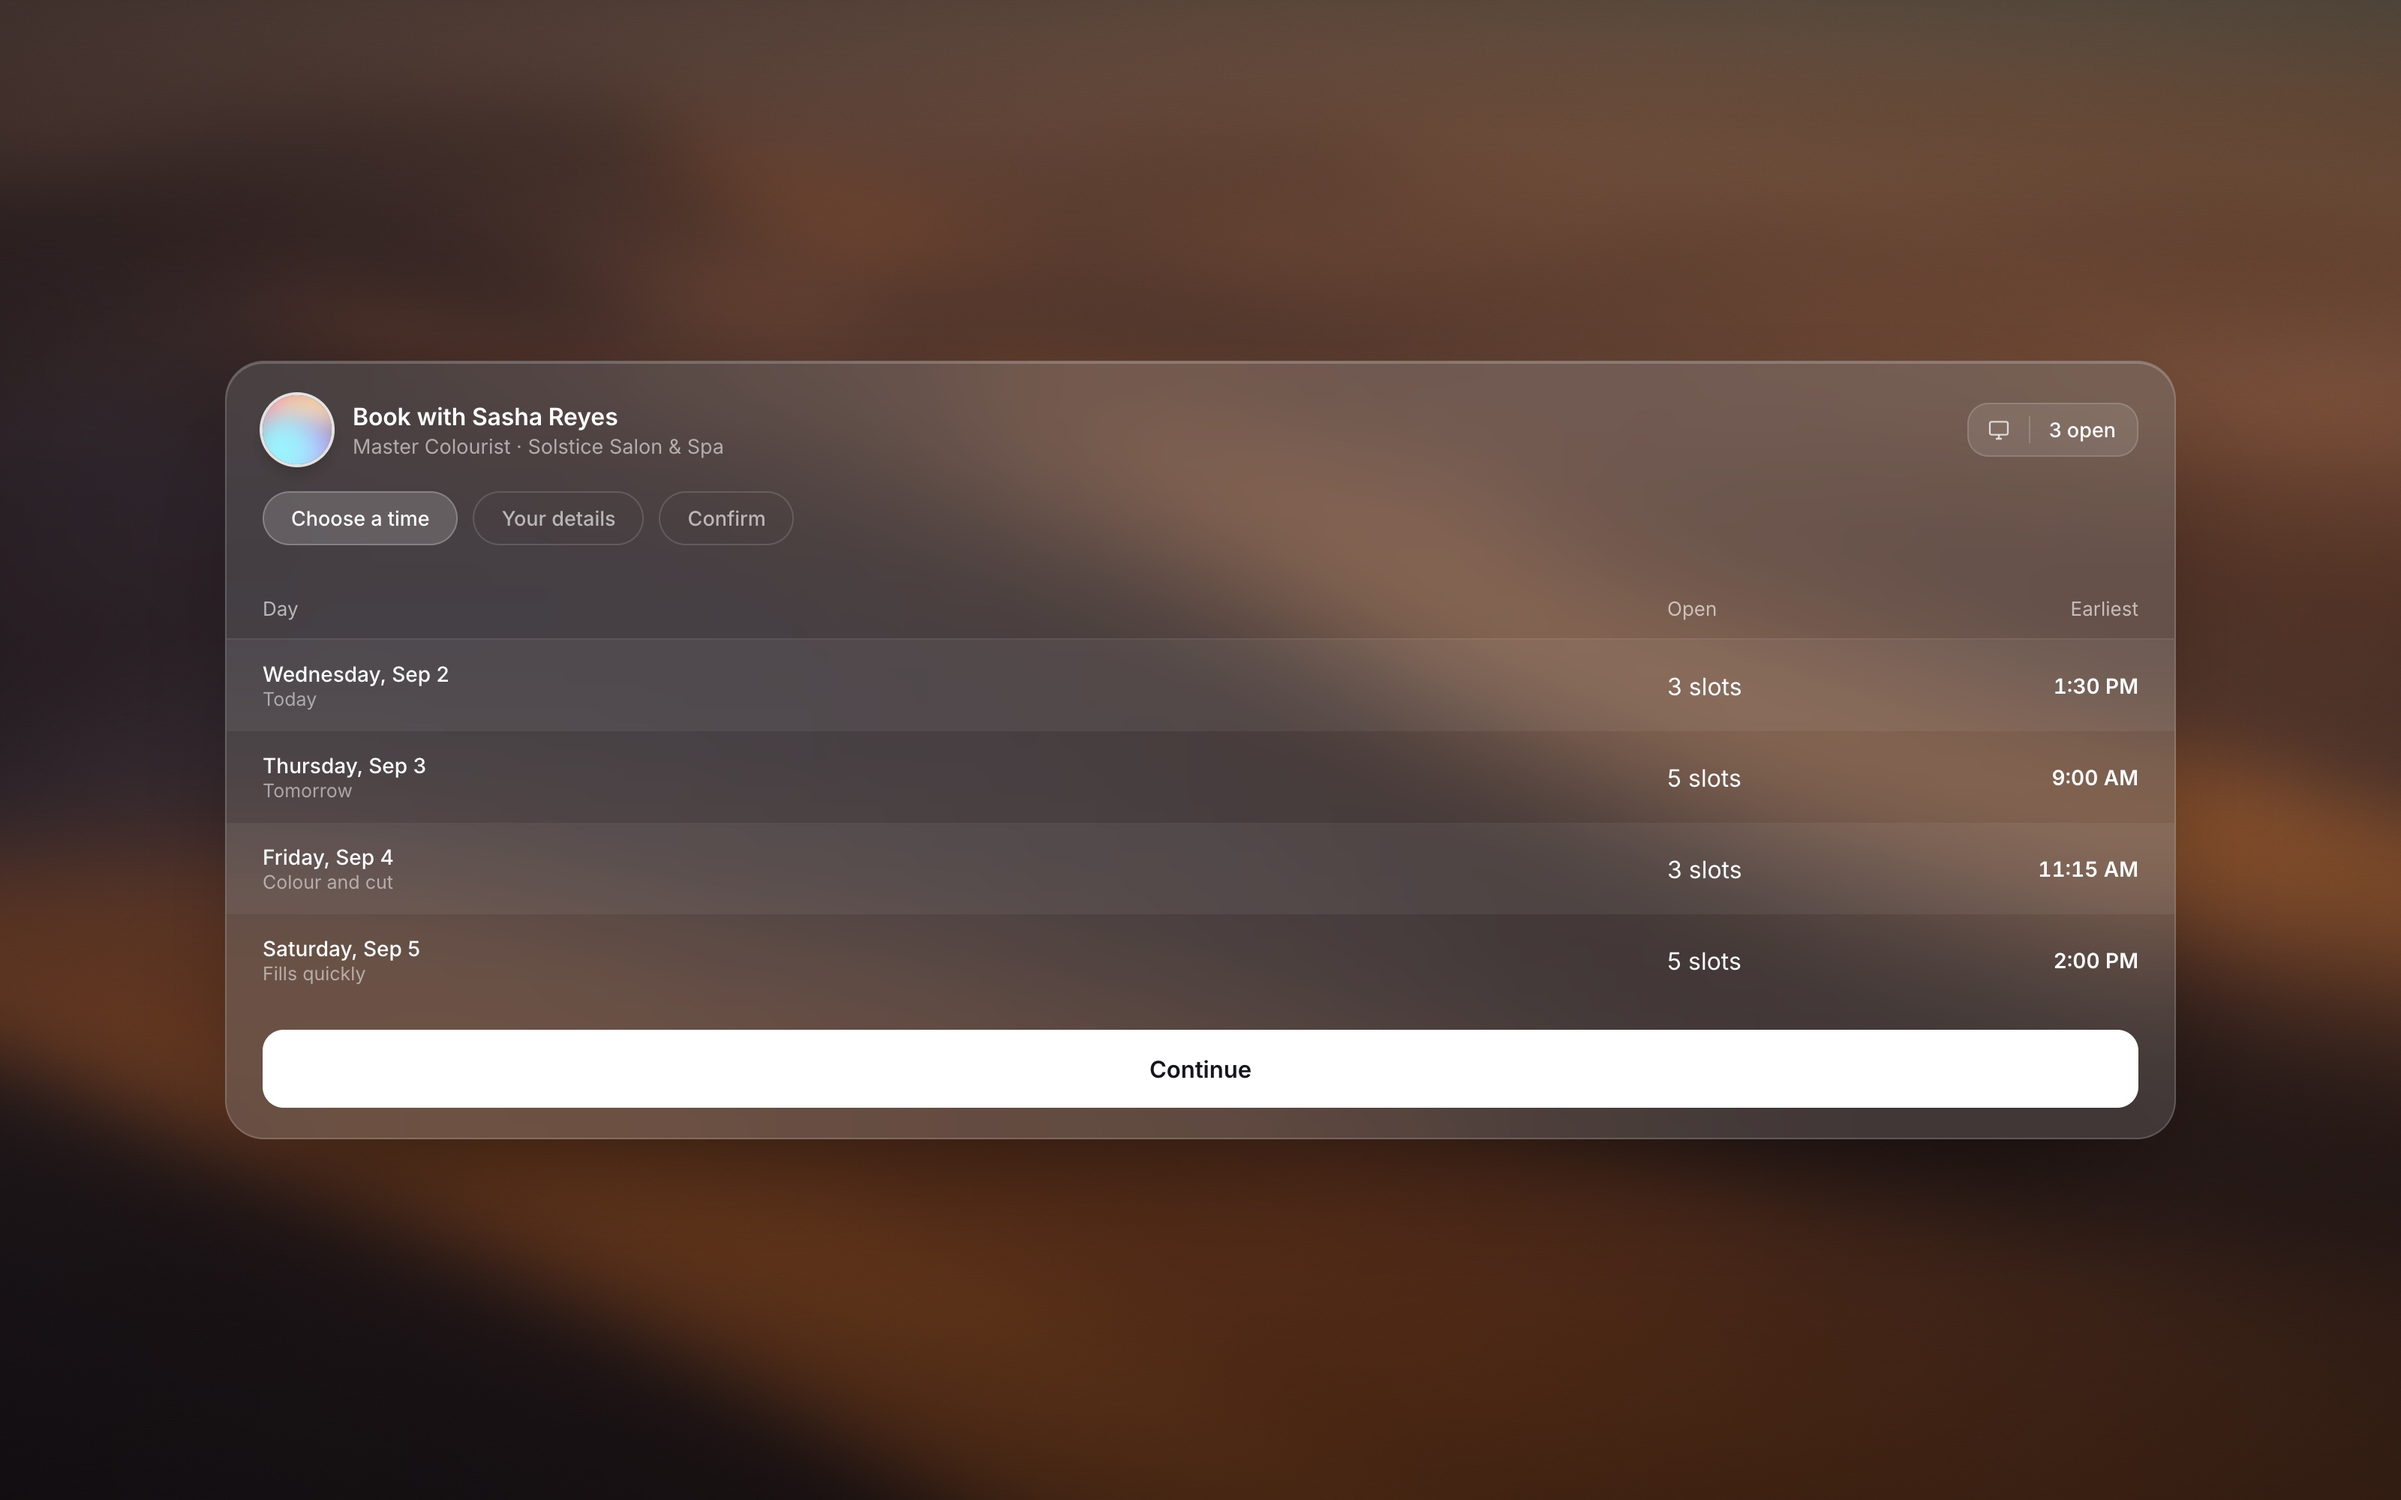
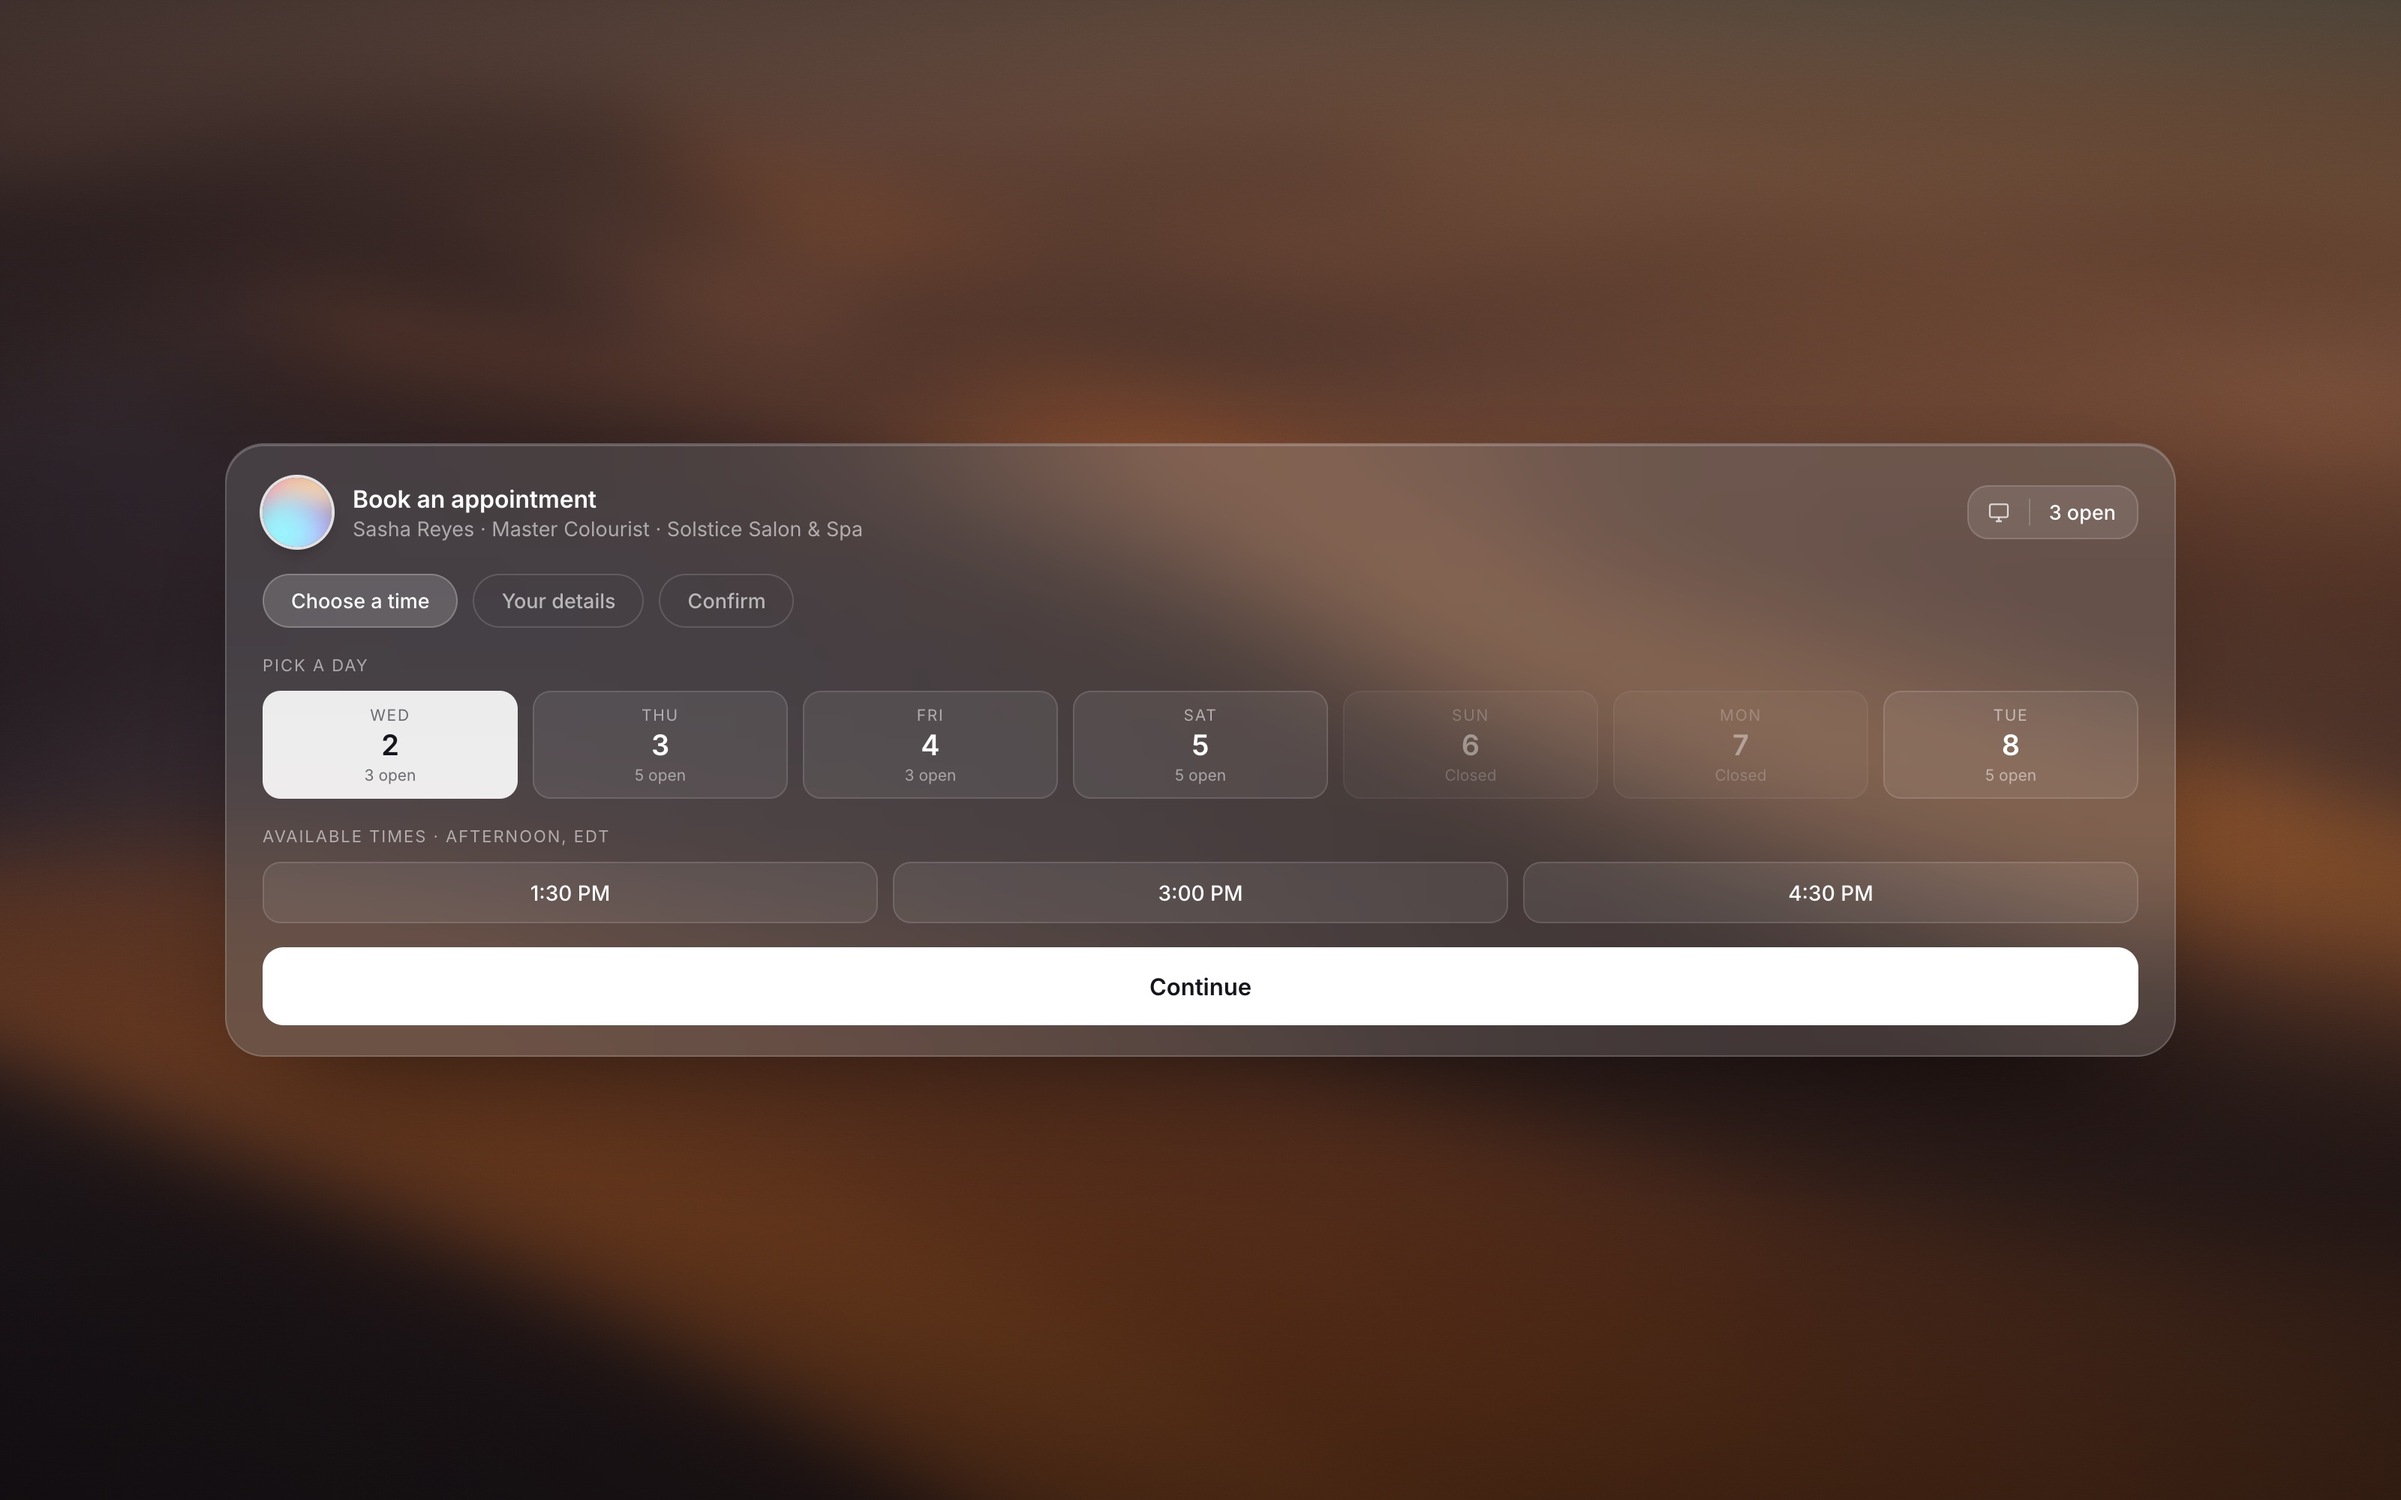
Booking page screen: the real booking UI in frosted glass
It was a generic list of days. It now shows what the booking page actually
is — the step row, the week of date tiles with open counts and closed days,
the afternoon times, and Continue — rendered as a frosted panel over the
desert like the rest.

diff --git a/scrollcraft/builds/receptionist/ref.py b/scrollcraft/builds/receptionist/ref.py
@@ -75,6 +75,21 @@ BASE = """<!doctype html><html><head><meta charset="utf-8">
   .t-warn { background:rgba(214,158,46,.24); color:#f0c15e; }
   .t-info { background:rgba(140,146,255,.24); color:#c2c6ff; }
   .t-ok { background:rgba(110,200,150,.22); color:#9fe0bb; }
+  .sect { padding:18px 24px 0; }
+  .sect .lbl { font-size:11px; letter-spacing:.09em; text-transform:uppercase; color:rgba(255,255,255,.55); margin-bottom:10px; }
+  .days { display:flex; gap:10px; }
+  .day { flex:1; text-align:center; padding:10px 6px 9px; border-radius:12px;
+         background:rgba(255,255,255,.07); box-shadow:inset 0 0 0 1px rgba(255,255,255,.12); }
+  .day .d { font-size:10.5px; letter-spacing:.08em; text-transform:uppercase; color:rgba(255,255,255,.55); }
+  .day .n { font-size:19px; font-weight:600; margin-top:2px; }
+  .day .o { font-size:10.5px; color:rgba(255,255,255,.5); margin-top:2px; }
+  .day.on { background:rgba(255,255,255,.9); box-shadow:none; }
+  .day.on .d, .day.on .o { color:rgba(20,22,28,.6); }
+  .day.on .n { color:#14161c; }
+  .day.off { opacity:.42; }
+  .times { display:flex; gap:10px; }
+  .time { flex:1; text-align:center; padding:12px 8px; border-radius:12px; font-size:14px; font-weight:500;
+          background:rgba(255,255,255,.07); box-shadow:inset 0 0 0 1px rgba(255,255,255,.12); }
   .foot { padding:16px 24px 20px; }
   .cta { height:52px; border-radius:14px; background:#fff; color:#14161c; font-size:15.5px; font-weight:600; display:grid; place-items:center; }
   /* flat sections used by the call / record cards */
@@ -216,16 +231,31 @@ STAGE["book"] = f"""
   <div class="pad">
     <div class="head">
       {ORB('#ff8fab','#ffd6a5','#bdb2ff','#9bf6ff')}
-      <div class="who"><b>Book with Sasha Reyes</b><span>Master Colourist · Solstice Salon &amp; Spa</span></div>
+      <div class="who"><b>Book an appointment</b><span>Sasha Reyes · Master Colourist · Solstice Salon &amp; Spa</span></div>
       <div class="chip">{MONITOR}<span class="div"></span>3 open</div>
     </div>
     <div class="pills"><span class="pill on">Choose a time</span><span class="pill">Your details</span><span class="pill">Confirm</span></div>
   </div>
-  <div class="thead" style="--cols:1fr 150px 150px"><span>Day</span><span>Open</span><span class="r">Earliest</span></div>
-  <div class="row alt" style="--cols:1fr 150px 150px"><div class="m"><div><b>Wednesday, Sep 2</b><span>Today</span></div></div><div class="say">3 slots</div><div class="val"><b>1:30 PM</b></div></div>
-  <div class="row" style="--cols:1fr 150px 150px"><div class="m"><div><b>Thursday, Sep 3</b><span>Tomorrow</span></div></div><div class="say">5 slots</div><div class="val"><b>9:00 AM</b></div></div>
-  <div class="row alt" style="--cols:1fr 150px 150px"><div class="m"><div><b>Friday, Sep 4</b><span>Colour and cut</span></div></div><div class="say">3 slots</div><div class="val"><b>11:15 AM</b></div></div>
-  <div class="row" style="--cols:1fr 150px 150px"><div class="m"><div><b>Saturday, Sep 5</b><span>Fills quickly</span></div></div><div class="say">5 slots</div><div class="val"><b>2:00 PM</b></div></div>
+  <div class="sect">
+    <div class="lbl">Pick a day</div>
+    <div class="days">
+      <div class="day on"><div class="d">Wed</div><div class="n">2</div><div class="o">3 open</div></div>
+      <div class="day"><div class="d">Thu</div><div class="n">3</div><div class="o">5 open</div></div>
+      <div class="day"><div class="d">Fri</div><div class="n">4</div><div class="o">3 open</div></div>
+      <div class="day"><div class="d">Sat</div><div class="n">5</div><div class="o">5 open</div></div>
+      <div class="day off"><div class="d">Sun</div><div class="n">6</div><div class="o">Closed</div></div>
+      <div class="day off"><div class="d">Mon</div><div class="n">7</div><div class="o">Closed</div></div>
+      <div class="day"><div class="d">Tue</div><div class="n">8</div><div class="o">5 open</div></div>
+    </div>
+  </div>
+  <div class="sect">
+    <div class="lbl">Available times · afternoon, EDT</div>
+    <div class="times">
+      <div class="time">1:30 PM</div>
+      <div class="time">3:00 PM</div>
+      <div class="time">4:30 PM</div>
+    </div>
+  </div>
   <div class="foot"><div class="cta">Continue</div></div>
 """
 
